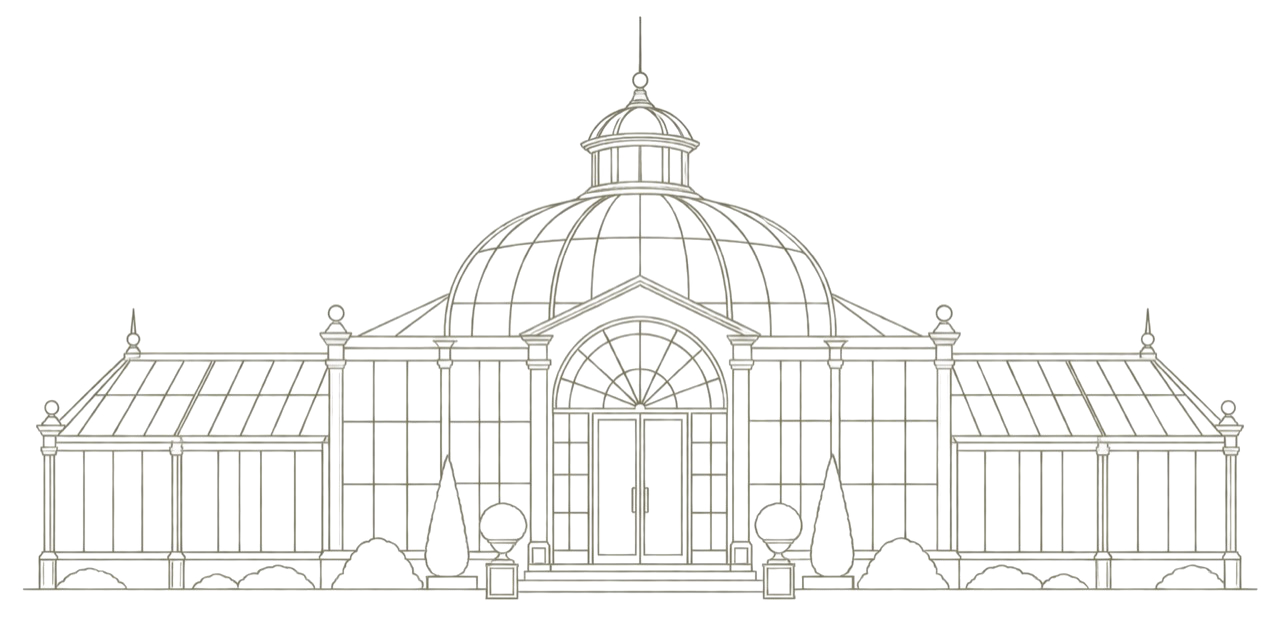
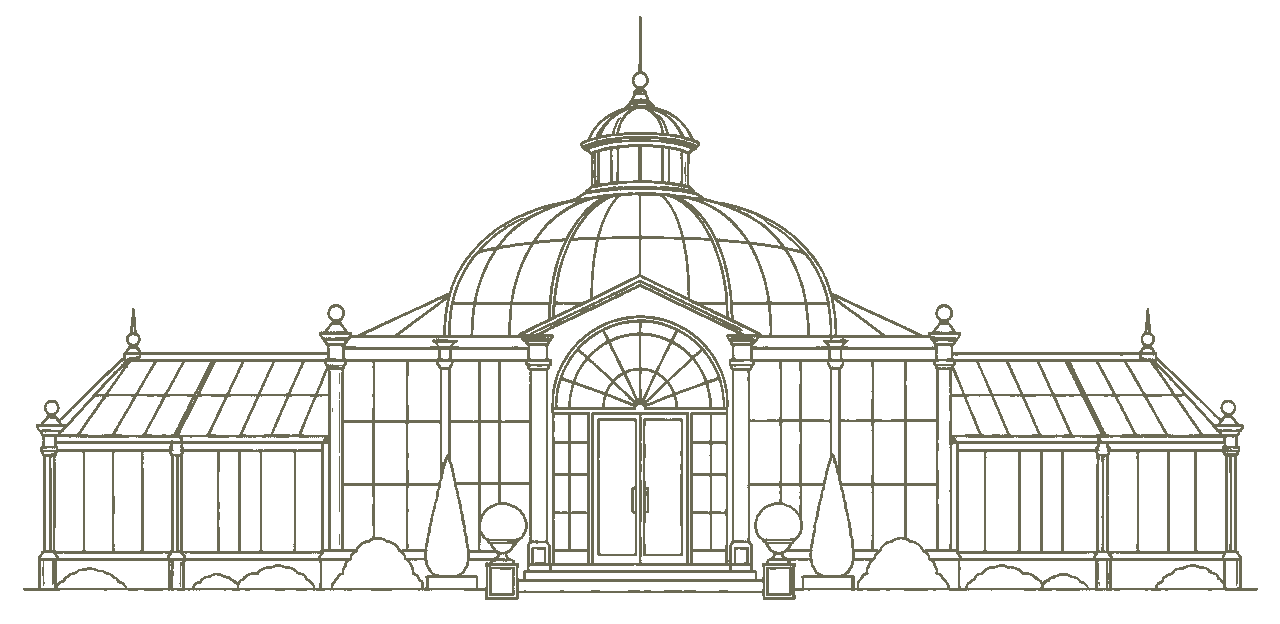
Align ceremony typography and palette

Changed region(s): [[0.0312, 0.1218, 0.9688, 0.9744]]

diff --git a/green-sage-wedding-invite/section2-overrides.css b/green-sage-wedding-invite/section2-overrides.css
@@ -1,19 +1,18 @@
 :root {
-  --palette-cool-ivory: #F3F2ED;
-  --palette-soft-greige: #E6E3DC;
-  --palette-mushroom-stone: #D2CEC5;
-  --palette-dusty-sage: #9EA596;
-  --palette-cool-olive: #626753;
-  --palette-deep-charcoal-olive: #3F4037;
-  --palette-muted-champagne: #AD9B78;
+  --palette-main-ivory: #F4EFE7;
+  --palette-soft-linen: #EAE2D7;
+  --palette-stone-beige: #D8CEC1;
+  --palette-muted-sage: #A3A792;
+  --palette-olive-ink: #6B6A54;
+  --palette-deep-text: #474232;
 }
 
 /* Section 2 — Ceremony: static hierarchy and spacing only. */
 .ceremony-section {
   min-height: 100svh;
   padding: clamp(88px, 9vw, 124px) 32px !important;
-  background: var(--palette-soft-greige) !important;
-  color: var(--palette-deep-charcoal-olive) !important;
+  background: var(--palette-soft-linen) !important;
+  color: var(--palette-deep-text) !important;
 }
 
 .ceremony-section .ceremony-content {
@@ -24,7 +23,7 @@
 
 .ceremony-section .ceremony-content .ceremony-label {
   margin: 0 !important;
-  color: var(--palette-cool-olive) !important;
+  color: rgba(107, 106, 84, .92) !important;
   font-family: "Instrument Sans", sans-serif !important;
   font-size: clamp(10px, .82vw, 12px) !important;
   font-weight: 400 !important;
@@ -35,7 +34,7 @@
 
 .ceremony-section .ceremony-content .ceremony-time {
   margin: clamp(22px, 2vw, 28px) 0 0 !important;
-  color: var(--palette-cool-olive) !important;
+  color: rgba(107, 106, 84, .92) !important;
   font-family: "Instrument Sans", sans-serif !important;
   font-size: clamp(13px, 1.05vw, 15px) !important;
   font-weight: 400 !important;
@@ -47,8 +46,8 @@
 .ceremony-section .ceremony-content .ceremony-venue {
   max-width: 720px !important;
   margin: clamp(20px, 2vw, 24px) 0 0 !important;
-  color: var(--palette-deep-charcoal-olive) !important;
-  font-family: "Baskervville", Baskerville, Georgia, serif !important;
+  color: var(--palette-deep-text) !important;
+  font-family: "Instrument Serif", Georgia, serif !important;
   font-size: clamp(50px, 5.2vw, 68px) !important;
   font-weight: 400 !important;
   line-height: .98 !important;
@@ -60,6 +59,7 @@
   width: clamp(240px, 24vw, 320px) !important;
   height: auto;
   margin: clamp(24px, 2.2vw, 28px) auto 0 !important;
+  opacity: .58;
   transform: scale(1.1);
   transform-origin: center;
 }
@@ -67,7 +67,7 @@
 .ceremony-section .ceremony-content .ceremony-address,
 .ceremony-section .ceremony-content .ceremony-location {
   margin: 0 !important;
-  color: rgba(63, 64, 55, .88) !important;
+  color: rgba(71, 66, 50, .82) !important;
   font-family: "Instrument Sans", sans-serif !important;
   font-size: clamp(11px, .9vw, 13px) !important;
   font-weight: 400 !important;
@@ -86,7 +86,7 @@
 
 .ceremony-section .ceremony-content .ceremony-note {
   margin: clamp(26px, 2.8vw, 34px) 0 0 !important;
-  color: rgba(98, 103, 83, .9) !important;
+  color: rgba(71, 66, 50, .86) !important;
   font-family: "Instrument Serif", Georgia, serif !important;
   font-size: clamp(15px, 1.25vw, 18px) !important;
   font-style: italic !important;

diff --git a/green-sage-wedding-invite/invitation.html b/green-sage-wedding-invite/invitation.html
@@ -194,7 +194,7 @@
             <div class="ceremony-content">
               <p class="ceremony-label system-label">CEREMONY</p>
               <p class="ceremony-time system-time" data-template-text="ceremony.time">3:00 PM</p>
-              <img class="ceremony-illustration" src="assets/glasshouse-line-transparent.png?v=20260831" alt="" aria-hidden="true">
+              <img class="ceremony-illustration" src="assets/glasshouse-line-transparent.png?v=20260831-olive-v1" alt="" aria-hidden="true">
               <h2 class="ceremony-venue system-heading system-heading--section" id="ceremonyHeading" data-template-text="ceremony.venue">The Glasshouse</h2>
               <p class="ceremony-address system-detail" data-template-text="ceremony.address">123 Example Street</p>
               <p class="ceremony-location system-detail" data-template-text="ceremony.location">Ottawa, Ontario</p>
@@ -232,6 +232,6 @@
 
   <script src="template-config.js?v=20260831-ceremony-static-v1" defer></script>
   <script src="template-runtime.js?v=20260830-hero-copy-v1" defer></script>
-  <script src="invitation.js?v=20260831-ceremony-illustration-v3" defer></script>
+  <script src="invitation.js?v=20260831-ceremony-system-v2" defer></script>
 </body>
 </html>

diff --git a/green-sage-wedding-invite/invitation.js b/green-sage-wedding-invite/invitation.js
@@ -1,7 +1,7 @@
 (() => {
   const sectionTwoStyles = document.createElement('link');
   sectionTwoStyles.rel = 'stylesheet';
-  sectionTwoStyles.href = 'section2-overrides.css?v=20260831-ceremony-illustration-v3';
+  sectionTwoStyles.href = 'section2-overrides.css?v=20260831-ceremony-system-v2';
   document.head.appendChild(sectionTwoStyles);
 
   const sectionThreeStyles = document.createElement('link');
